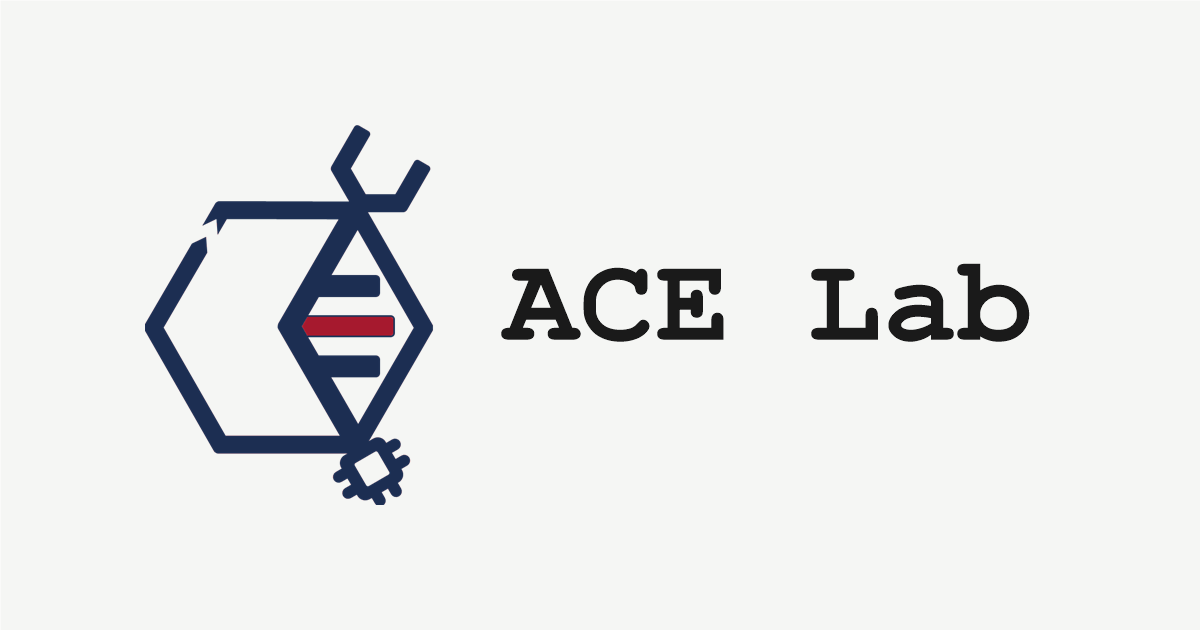
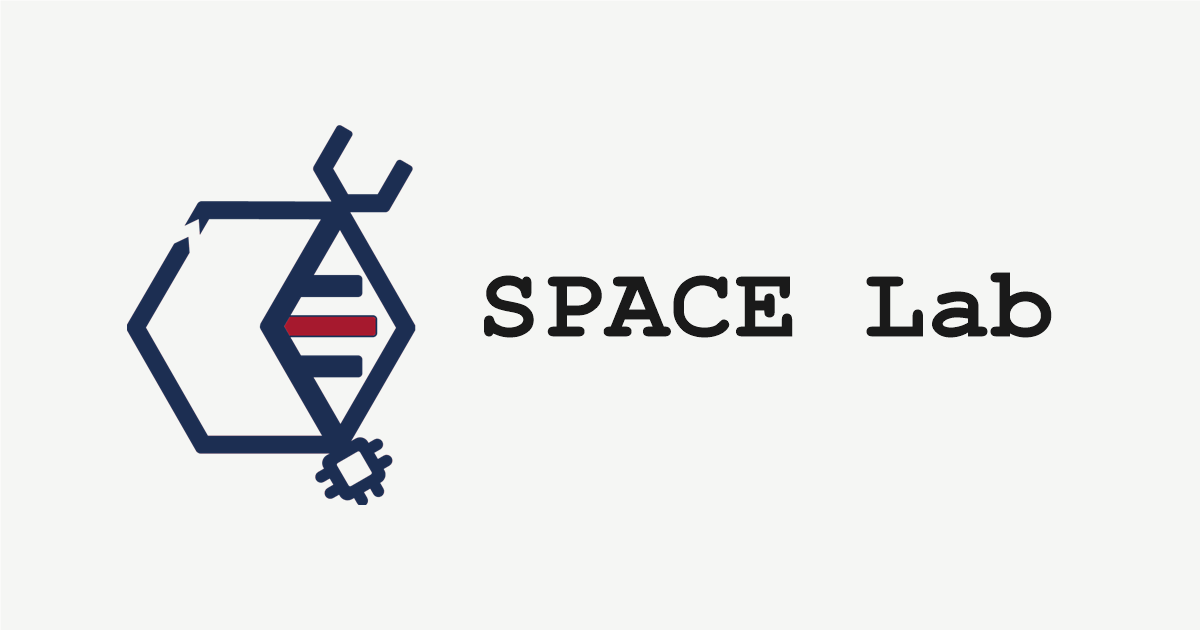
Rename lab: ACE Lab -> SPACE Lab (Synthetic & Programmable Advanced Cell Engineering)
Renamed to avoid clashing with another "ACE Lab" elsewhere at KAIST.

- All 5 pages: titles, meta descriptions, OG/Twitter tags, masthead
  wordmark, top-bar full name, footer, Home dek/byline, People PI
  bio/affiliation/join-note/alumni copy, News dispatch title & alt text
- Removed the "@ GSMSE" wordmark tag per this round's brand simplification
- Regenerated og-image.png with "SPACE Lab" (favicon unchanged - text-free)
- Updated CLAUDE.md to the new name and current hosting/workflow info
- Tagged the last ACE Lab commit as `ace-lab-final` for easy rollback:
  git checkout ace-lab-final -- site/   (then redeploy via subtree push)

Changed region(s): [[0.2158, 0.181, 0.37, 0.8143], [0.4008, 0.4222, 0.8942, 0.5429], [0.0925, 0.3016, 0.185, 0.7238]]

diff --git a/people.html b/people.html
@@ -3,19 +3,19 @@
 <head>
 <meta charset="UTF-8">
 <meta name="viewport" content="width=device-width, initial-scale=1.0">
-<title>People — ACE Lab</title>
-<meta name="description" content="ACE Lab's PI, current members, and alumni at KAIST GSMSE.">
+<title>People — SPACE Lab</title>
+<meta name="description" content="SPACE Lab's PI, current members, and alumni at KAIST GSMSE.">
 <link rel="icon" type="image/png" href="assets/images/favicon.png">
 <meta property="og:type" content="website">
 <meta property="og:url" content="https://juchanpark.github.io/acelab_at_gsmse/people.html">
-<meta property="og:title" content="People — ACE Lab">
-<meta property="og:description" content="ACE Lab's PI, current members, and alumni at KAIST GSMSE.">
+<meta property="og:title" content="People — SPACE Lab">
+<meta property="og:description" content="SPACE Lab's PI, current members, and alumni at KAIST GSMSE.">
 <meta property="og:image" content="https://juchanpark.github.io/acelab_at_gsmse/assets/images/og-image.png">
 <meta property="og:image:width" content="1200">
 <meta property="og:image:height" content="630">
 <meta name="twitter:card" content="summary_large_image">
-<meta name="twitter:title" content="People — ACE Lab">
-<meta name="twitter:description" content="ACE Lab's PI, current members, and alumni at KAIST GSMSE.">
+<meta name="twitter:title" content="People — SPACE Lab">
+<meta name="twitter:description" content="SPACE Lab's PI, current members, and alumni at KAIST GSMSE.">
 <meta name="twitter:image" content="https://juchanpark.github.io/acelab_at_gsmse/assets/images/og-image.png">
 <link rel="preconnect" href="https://fonts.googleapis.com">
 <link rel="preconnect" href="https://fonts.gstatic.com" crossorigin>
@@ -228,14 +228,13 @@
     <a class="gsmse-logo-link" href="https://gsmse.kaist.ac.kr/" target="_blank" rel="noopener noreferrer" aria-label="KAIST Graduate School of Medical Science and Engineering (opens in new tab)">
       <img src="assets/images/gsmse-logo.png" alt="KAIST GSMSE">
     </a>
-    <span class="date">Advanced Cell Engineering Lab</span>
+    <span class="date">Synthetic &amp; Programmable Advanced Cell Engineering Lab</span>
   </div>
   <div class="wrap">
     <a class="brand-row" href="index.html">
       <img class="lab-logo-mark lab-logo-mark--light" src="assets/images/ace-lab-logo-light.png" alt="">
       <img class="lab-logo-mark lab-logo-mark--dark" src="assets/images/ace-lab-logo-dark.png" alt="">
-      <span class="wordmark">ACE Lab</span>
-      <span class="wordmark-tag">@ GSMSE</span>
+      <span class="wordmark">SPACE Lab</span>
     </a>
   </div>
   <ul class="nav-row">
@@ -270,8 +269,8 @@
         <div>
           <p class="pi-name">Ju-Chan Park, Ph.D.</p>
           <p class="pi-title">Principal Investigator</p>
-          <p class="pi-affil">Advanced Cell Engineering Lab, GSMSE, KAIST</p>
-          <p class="pi-bio">Ju-Chan Park leads ACE Lab's work on <strong>context-aware genome editing</strong>, <strong>generative AI for cell engineering</strong>, and <strong>hPSC-based disease modeling &amp; drug screening</strong>. He completed his Ph.D. at the Seoul National University College of Pharmacy, followed by postdoctoral research at the SNU Medical Research Center and a visiting scholarship at Harvard Medical School, before joining KAIST GSMSE as Assistant Professor in 2026.</p>
+          <p class="pi-affil">Synthetic &amp; Programmable Advanced Cell Engineering Lab, GSMSE, KAIST</p>
+          <p class="pi-bio">Ju-Chan Park leads SPACE Lab's work on <strong>context-aware genome editing</strong>, <strong>generative AI for cell engineering</strong>, and <strong>hPSC-based disease modeling &amp; drug screening</strong>. He completed his Ph.D. at the Seoul National University College of Pharmacy, followed by postdoctoral research at the SNU Medical Research Center and a visiting scholarship at Harvard Medical School, before joining KAIST GSMSE as Assistant Professor in 2026.</p>
         </div>
       </div>
 
@@ -337,7 +336,7 @@
     </section>
 
     <section class="tab-panel" id="tab-members" role="tabpanel">
-      <p class="join-note">ACE Lab is recruiting its founding members for 2026. If you're interested in genome engineering, generative AI for cell engineering, or hPSC-based disease modeling, we'd love to hear from you — reach out at <a href="mailto:jcpark9212@kaist.ac.kr">jcpark9212@kaist.ac.kr</a>.</p>
+      <p class="join-note">SPACE Lab is recruiting its founding members for 2026. If you're interested in genome engineering, generative AI for cell engineering, or hPSC-based disease modeling, we'd love to hear from you — reach out at <a href="mailto:jcpark9212@kaist.ac.kr">jcpark9212@kaist.ac.kr</a>.</p>
       <div class="open-positions">
         <div class="open-card">
           <span class="open-mark">+</span>
@@ -359,7 +358,7 @@
     <section class="tab-panel" id="tab-alumni" role="tabpanel">
       <div class="empty-state">
         <h2>No alumni yet</h2>
-        <p>ACE Lab opened its doors in 2026. Future graduates of the lab will be listed here.</p>
+        <p>SPACE Lab opened its doors in 2026. Future graduates of the lab will be listed here.</p>
       </div>
     </section>
 
@@ -368,7 +367,7 @@
 
 <footer>
   <div class="wrap">
-    <p>ACE Lab · Graduate School of Medical Science and Engineering, Korea Advanced Institute of Science and Technology</p>
+    <p>SPACE Lab · Graduate School of Medical Science and Engineering, Korea Advanced Institute of Science and Technology</p>
     <p>Hakbu-dong (F) 501-11, 193, Munji-ro, Yuseong-gu, Daejeon, 34051, Republic of Korea</p>
   </div>
 </footer>

diff --git a/index.html b/index.html
@@ -3,19 +3,19 @@
 <head>
 <meta charset="UTF-8">
 <meta name="viewport" content="width=device-width, initial-scale=1.0">
-<title>ACE Lab — Advanced Cell Engineering Lab, KAIST</title>
-<meta name="description" content="ACE Lab (Advanced Cell Engineering Lab) at KAIST GSMSE develops context-aware genome editing and hPSC-based disease modeling technologies.">
+<title>SPACE Lab — Synthetic & Programmable Advanced Cell Engineering, KAIST</title>
+<meta name="description" content="SPACE Lab (Synthetic & Programmable Advanced Cell Engineering) at KAIST GSMSE develops context-aware genome editing and hPSC-based disease modeling technologies.">
 <link rel="icon" type="image/png" href="assets/images/favicon.png">
 <meta property="og:type" content="website">
 <meta property="og:url" content="https://juchanpark.github.io/acelab_at_gsmse/">
-<meta property="og:title" content="ACE Lab — Advanced Cell Engineering Lab, KAIST">
-<meta property="og:description" content="ACE Lab (Advanced Cell Engineering Lab) at KAIST GSMSE develops context-aware genome editing and hPSC-based disease modeling technologies.">
+<meta property="og:title" content="SPACE Lab — Synthetic & Programmable Advanced Cell Engineering, KAIST">
+<meta property="og:description" content="SPACE Lab (Synthetic & Programmable Advanced Cell Engineering) at KAIST GSMSE develops context-aware genome editing and hPSC-based disease modeling technologies.">
 <meta property="og:image" content="https://juchanpark.github.io/acelab_at_gsmse/assets/images/og-image.png">
 <meta property="og:image:width" content="1200">
 <meta property="og:image:height" content="630">
 <meta name="twitter:card" content="summary_large_image">
-<meta name="twitter:title" content="ACE Lab — Advanced Cell Engineering Lab, KAIST">
-<meta name="twitter:description" content="ACE Lab (Advanced Cell Engineering Lab) at KAIST GSMSE develops context-aware genome editing and hPSC-based disease modeling technologies.">
+<meta name="twitter:title" content="SPACE Lab — Synthetic & Programmable Advanced Cell Engineering, KAIST">
+<meta name="twitter:description" content="SPACE Lab (Synthetic & Programmable Advanced Cell Engineering) at KAIST GSMSE develops context-aware genome editing and hPSC-based disease modeling technologies.">
 <meta name="twitter:image" content="https://juchanpark.github.io/acelab_at_gsmse/assets/images/og-image.png">
 <link rel="preconnect" href="https://fonts.googleapis.com">
 <link rel="preconnect" href="https://fonts.gstatic.com" crossorigin>
@@ -380,14 +380,13 @@
     <a class="gsmse-logo-link" href="https://gsmse.kaist.ac.kr/" target="_blank" rel="noopener noreferrer" aria-label="KAIST Graduate School of Medical Science and Engineering (opens in new tab)">
       <img src="assets/images/gsmse-logo.png" alt="KAIST GSMSE">
     </a>
-    <span class="date">Advanced Cell Engineering Lab</span>
+    <span class="date">Synthetic &amp; Programmable Advanced Cell Engineering Lab</span>
   </div>
   <div class="wrap">
     <a class="brand-row" href="index.html">
       <img class="lab-logo-mark lab-logo-mark--light" src="assets/images/ace-lab-logo-light.png" alt="">
       <img class="lab-logo-mark lab-logo-mark--dark" src="assets/images/ace-lab-logo-dark.png" alt="">
-      <span class="wordmark">ACE Lab</span>
-      <span class="wordmark-tag">@ GSMSE</span>
+      <span class="wordmark">SPACE Lab</span>
     </a>
   </div>
   <ul class="nav-row">
@@ -405,8 +404,8 @@
     <div class="cover-hero-inner">
       <p class="kicker">Cover Story</p>
       <h1>How can we cure genetic diseases?</h1>
-      <p class="dek">ACE Lab develops context-aware genome editing technologies and hPSC-based disease modeling technologies, by combining genome engineering, human pluripotent stem cells, and generative AI.</p>
-      <p class="byline"><strong>Ju-Chan Park</strong>, Principal Investigator — Advanced Cell Engineering Lab, GSMSE, KAIST</p>
+      <p class="dek">SPACE Lab develops context-aware genome editing technologies and hPSC-based disease modeling technologies, by combining genome engineering, human pluripotent stem cells, and generative AI.</p>
+      <p class="byline"><strong>Ju-Chan Park</strong>, Principal Investigator — Synthetic &amp; Programmable Advanced Cell Engineering Lab, GSMSE, KAIST</p>
     </div>
   </section>
 
@@ -485,7 +484,7 @@
         <div>
           <p class="mw-name">Ju-Chan Park</p>
           <p class="mw-role">Principal Investigator</p>
-          <p class="mw-joined">Welcome to the ACE Lab</p>
+          <p class="mw-joined">Welcome to the SPACE Lab</p>
         </div>
       </div>
       <div class="mw-slide">
@@ -537,7 +536,7 @@
 
 <footer>
   <div class="wrap">
-    <p>ACE Lab · Graduate School of Medical Science and Engineering, Korea Advanced Institute of Science and Technology</p>
+    <p>SPACE Lab · Graduate School of Medical Science and Engineering, Korea Advanced Institute of Science and Technology</p>
     <p>Hakbu-dong (F) 501-11, 193, Munji-ro, Yuseong-gu, Daejeon, 34051, Republic of Korea</p>
   </div>
 </footer>

diff --git a/news.html b/news.html
@@ -3,19 +3,19 @@
 <head>
 <meta charset="UTF-8">
 <meta name="viewport" content="width=device-width, initial-scale=1.0">
-<title>News — ACE Lab</title>
-<meta name="description" content="A photo journal of moments from ACE Lab, newest first.">
+<title>News — SPACE Lab</title>
+<meta name="description" content="A photo journal of moments from SPACE Lab, newest first.">
 <link rel="icon" type="image/png" href="assets/images/favicon.png">
 <meta property="og:type" content="website">
 <meta property="og:url" content="https://juchanpark.github.io/acelab_at_gsmse/news.html">
-<meta property="og:title" content="News — ACE Lab">
-<meta property="og:description" content="A photo journal of moments from ACE Lab, newest first.">
+<meta property="og:title" content="News — SPACE Lab">
+<meta property="og:description" content="A photo journal of moments from SPACE Lab, newest first.">
 <meta property="og:image" content="https://juchanpark.github.io/acelab_at_gsmse/assets/images/og-image.png">
 <meta property="og:image:width" content="1200">
 <meta property="og:image:height" content="630">
 <meta name="twitter:card" content="summary_large_image">
-<meta name="twitter:title" content="News — ACE Lab">
-<meta name="twitter:description" content="A photo journal of moments from ACE Lab, newest first.">
+<meta name="twitter:title" content="News — SPACE Lab">
+<meta name="twitter:description" content="A photo journal of moments from SPACE Lab, newest first.">
 <meta name="twitter:image" content="https://juchanpark.github.io/acelab_at_gsmse/assets/images/og-image.png">
 <link rel="preconnect" href="https://fonts.googleapis.com">
 <link rel="preconnect" href="https://fonts.gstatic.com" crossorigin>
@@ -145,14 +145,13 @@
     <a class="gsmse-logo-link" href="https://gsmse.kaist.ac.kr/" target="_blank" rel="noopener noreferrer" aria-label="KAIST Graduate School of Medical Science and Engineering (opens in new tab)">
       <img src="assets/images/gsmse-logo.png" alt="KAIST GSMSE">
     </a>
-    <span class="date">Advanced Cell Engineering Lab</span>
+    <span class="date">Synthetic &amp; Programmable Advanced Cell Engineering Lab</span>
   </div>
   <div class="wrap">
     <a class="brand-row" href="index.html">
       <img class="lab-logo-mark lab-logo-mark--light" src="assets/images/ace-lab-logo-light.png" alt="">
       <img class="lab-logo-mark lab-logo-mark--dark" src="assets/images/ace-lab-logo-dark.png" alt="">
-      <span class="wordmark">ACE Lab</span>
-      <span class="wordmark-tag">@ GSMSE</span>
+      <span class="wordmark">SPACE Lab</span>
     </a>
   </div>
   <ul class="nav-row">
@@ -176,10 +175,10 @@
 
       <article class="dispatch">
         <p class="dispatch-date">August 1, 2026</p>
-        <h2 class="dispatch-title">1st Day of the ACE Lab — Nothing… No One...</h2>
+        <h2 class="dispatch-title">1st Day of the SPACE Lab — Nothing… No One...</h2>
         <div class="dispatch-gallery">
           <button class="gallery-item" type="button">
-            <img src="assets/images/news-260801-a.jpg" alt="Empty lab space on ACE Lab's first day — bare white walls, a window bench, and a single sink cabinet.">
+            <img src="assets/images/news-260801-a.jpg" alt="Empty lab space on SPACE Lab's first day — bare white walls, a window bench, and a single sink cabinet.">
           </button>
           <button class="gallery-item" type="button">
             <img src="assets/images/news-260801-b.jpg" alt="View through the lab's glass door into the empty room, before any furniture or people have arrived.">
@@ -196,7 +195,7 @@
 
 <footer>
   <div class="wrap">
-    <p>ACE Lab · Graduate School of Medical Science and Engineering, Korea Advanced Institute of Science and Technology</p>
+    <p>SPACE Lab · Graduate School of Medical Science and Engineering, Korea Advanced Institute of Science and Technology</p>
     <p>Hakbu-dong (F) 501-11, 193, Munji-ro, Yuseong-gu, Daejeon, 34051, Republic of Korea</p>
   </div>
 </footer>

diff --git a/research.html b/research.html
@@ -3,19 +3,19 @@
 <head>
 <meta charset="UTF-8">
 <meta name="viewport" content="width=device-width, initial-scale=1.0">
-<title>Research — ACE Lab</title>
-<meta name="description" content="ACE Lab's two research directions: context-aware genome editing for cell and gene therapy, and hPSC-based variomics for disease modeling and drug discovery.">
+<title>Research — SPACE Lab</title>
+<meta name="description" content="SPACE Lab's two research directions: context-aware genome editing for cell and gene therapy, and hPSC-based variomics for disease modeling and drug discovery.">
 <link rel="icon" type="image/png" href="assets/images/favicon.png">
 <meta property="og:type" content="website">
 <meta property="og:url" content="https://juchanpark.github.io/acelab_at_gsmse/research.html">
-<meta property="og:title" content="Research — ACE Lab">
-<meta property="og:description" content="ACE Lab's two research directions: context-aware genome editing for cell and gene therapy, and hPSC-based variomics for disease modeling and drug discovery.">
+<meta property="og:title" content="Research — SPACE Lab">
+<meta property="og:description" content="SPACE Lab's two research directions: context-aware genome editing for cell and gene therapy, and hPSC-based variomics for disease modeling and drug discovery.">
 <meta property="og:image" content="https://juchanpark.github.io/acelab_at_gsmse/assets/images/og-image.png">
 <meta property="og:image:width" content="1200">
 <meta property="og:image:height" content="630">
 <meta name="twitter:card" content="summary_large_image">
-<meta name="twitter:title" content="Research — ACE Lab">
-<meta name="twitter:description" content="ACE Lab's two research directions: context-aware genome editing for cell and gene therapy, and hPSC-based variomics for disease modeling and drug discovery.">
+<meta name="twitter:title" content="Research — SPACE Lab">
+<meta name="twitter:description" content="SPACE Lab's two research directions: context-aware genome editing for cell and gene therapy, and hPSC-based variomics for disease modeling and drug discovery.">
 <meta name="twitter:image" content="https://juchanpark.github.io/acelab_at_gsmse/assets/images/og-image.png">
 <link rel="preconnect" href="https://fonts.googleapis.com">
 <link rel="preconnect" href="https://fonts.gstatic.com" crossorigin>
@@ -130,14 +130,13 @@
     <a class="gsmse-logo-link" href="https://gsmse.kaist.ac.kr/" target="_blank" rel="noopener noreferrer" aria-label="KAIST Graduate School of Medical Science and Engineering (opens in new tab)">
       <img src="assets/images/gsmse-logo.png" alt="KAIST GSMSE">
     </a>
-    <span class="date">Advanced Cell Engineering Lab</span>
+    <span class="date">Synthetic &amp; Programmable Advanced Cell Engineering Lab</span>
   </div>
   <div class="wrap">
     <a class="brand-row" href="index.html">
       <img class="lab-logo-mark lab-logo-mark--light" src="assets/images/ace-lab-logo-light.png" alt="">
       <img class="lab-logo-mark lab-logo-mark--dark" src="assets/images/ace-lab-logo-dark.png" alt="">
-      <span class="wordmark">ACE Lab</span>
-      <span class="wordmark-tag">@ GSMSE</span>
+      <span class="wordmark">SPACE Lab</span>
     </a>
   </div>
   <ul class="nav-row">
@@ -216,7 +215,7 @@
 
 <footer>
   <div class="wrap">
-    <p>ACE Lab · Graduate School of Medical Science and Engineering, Korea Advanced Institute of Science and Technology</p>
+    <p>SPACE Lab · Graduate School of Medical Science and Engineering, Korea Advanced Institute of Science and Technology</p>
     <p>Hakbu-dong (F) 501-11, 193, Munji-ro, Yuseong-gu, Daejeon, 34051, Republic of Korea</p>
   </div>
 </footer>

diff --git a/publications.html b/publications.html
@@ -3,19 +3,19 @@
 <head>
 <meta charset="UTF-8">
 <meta name="viewport" content="width=device-width, initial-scale=1.0">
-<title>Publications — ACE Lab</title>
-<meta name="description" content="Peer-reviewed papers from ACE Lab and PI Ju-Chan Park, newest first.">
+<title>Publications — SPACE Lab</title>
+<meta name="description" content="Peer-reviewed papers from SPACE Lab and PI Ju-Chan Park, newest first.">
 <link rel="icon" type="image/png" href="assets/images/favicon.png">
 <meta property="og:type" content="website">
 <meta property="og:url" content="https://juchanpark.github.io/acelab_at_gsmse/publications.html">
-<meta property="og:title" content="Publications — ACE Lab">
-<meta property="og:description" content="Peer-reviewed papers from ACE Lab and PI Ju-Chan Park, newest first.">
+<meta property="og:title" content="Publications — SPACE Lab">
+<meta property="og:description" content="Peer-reviewed papers from SPACE Lab and PI Ju-Chan Park, newest first.">
 <meta property="og:image" content="https://juchanpark.github.io/acelab_at_gsmse/assets/images/og-image.png">
 <meta property="og:image:width" content="1200">
 <meta property="og:image:height" content="630">
 <meta name="twitter:card" content="summary_large_image">
-<meta name="twitter:title" content="Publications — ACE Lab">
-<meta name="twitter:description" content="Peer-reviewed papers from ACE Lab and PI Ju-Chan Park, newest first.">
+<meta name="twitter:title" content="Publications — SPACE Lab">
+<meta name="twitter:description" content="Peer-reviewed papers from SPACE Lab and PI Ju-Chan Park, newest first.">
 <meta name="twitter:image" content="https://juchanpark.github.io/acelab_at_gsmse/assets/images/og-image.png">
 <link rel="preconnect" href="https://fonts.googleapis.com">
 <link rel="preconnect" href="https://fonts.gstatic.com" crossorigin>
@@ -92,14 +92,13 @@
     <a class="gsmse-logo-link" href="https://gsmse.kaist.ac.kr/" target="_blank" rel="noopener noreferrer" aria-label="KAIST Graduate School of Medical Science and Engineering (opens in new tab)">
       <img src="assets/images/gsmse-logo.png" alt="KAIST GSMSE">
     </a>
-    <span class="date">Advanced Cell Engineering Lab</span>
+    <span class="date">Synthetic &amp; Programmable Advanced Cell Engineering Lab</span>
   </div>
   <div class="wrap">
     <a class="brand-row" href="index.html">
       <img class="lab-logo-mark lab-logo-mark--light" src="assets/images/ace-lab-logo-light.png" alt="">
       <img class="lab-logo-mark lab-logo-mark--dark" src="assets/images/ace-lab-logo-dark.png" alt="">
-      <span class="wordmark">ACE Lab</span>
-      <span class="wordmark-tag">@ GSMSE</span>
+      <span class="wordmark">SPACE Lab</span>
     </a>
   </div>
   <ul class="nav-row">
@@ -207,7 +206,7 @@
 
 <footer>
   <div class="wrap">
-    <p>ACE Lab · Graduate School of Medical Science and Engineering, Korea Advanced Institute of Science and Technology</p>
+    <p>SPACE Lab · Graduate School of Medical Science and Engineering, Korea Advanced Institute of Science and Technology</p>
     <p>Hakbu-dong (F) 501-11, 193, Munji-ro, Yuseong-gu, Daejeon, 34051, Republic of Korea</p>
   </div>
 </footer>

diff --git a/assets/css/site.css b/assets/css/site.css
@@ -1,4 +1,4 @@
-/* ACE Lab — shared site styles (tokens, masthead, footer) */
+/* SPACE Lab — shared site styles (tokens, masthead, footer) */
 
 :root {
   --bg: #f5f6f4;
@@ -145,25 +145,16 @@ img { max-width: 100%; }
   text-decoration: none;
   text-align: center;
 }
-.wordmark-tag {
-  font-family: "Courier New", Courier, monospace;
-  font-weight: 700;
-  font-size: 2.2rem;
-  line-height: 1;
-  letter-spacing: 0.01em;
-  color: var(--ink-muted);
-}
 @media (max-width: 640px) {
-  /* Scale the logo and both wordmark parts down together, in the same
-     proportion as the desktop sizes, so "ACE Lab @ GSMSE" stays on one
-     line and the hexagon-to-baseline alignment still lines up. */
-  .brand-row { gap: 0.45rem; flex-wrap: nowrap; }
+  /* Scale the logo and wordmark down together, in the same proportion
+     as the desktop sizes, so the hexagon-to-baseline alignment holds. */
+  .brand-row { gap: 0.45rem; }
   .lab-logo-mark { height: 2.05rem; margin-bottom: -0.32rem; }
-  .wordmark, .wordmark-tag { font-size: 1.28rem; }
+  .wordmark { font-size: 1.28rem; }
 }
 @media (max-width: 360px) {
   .lab-logo-mark { height: 1.7rem; margin-bottom: -0.27rem; }
-  .wordmark, .wordmark-tag { font-size: 1.06rem; }
+  .wordmark { font-size: 1.06rem; }
 }
 .nav-row {
   display: flex;
